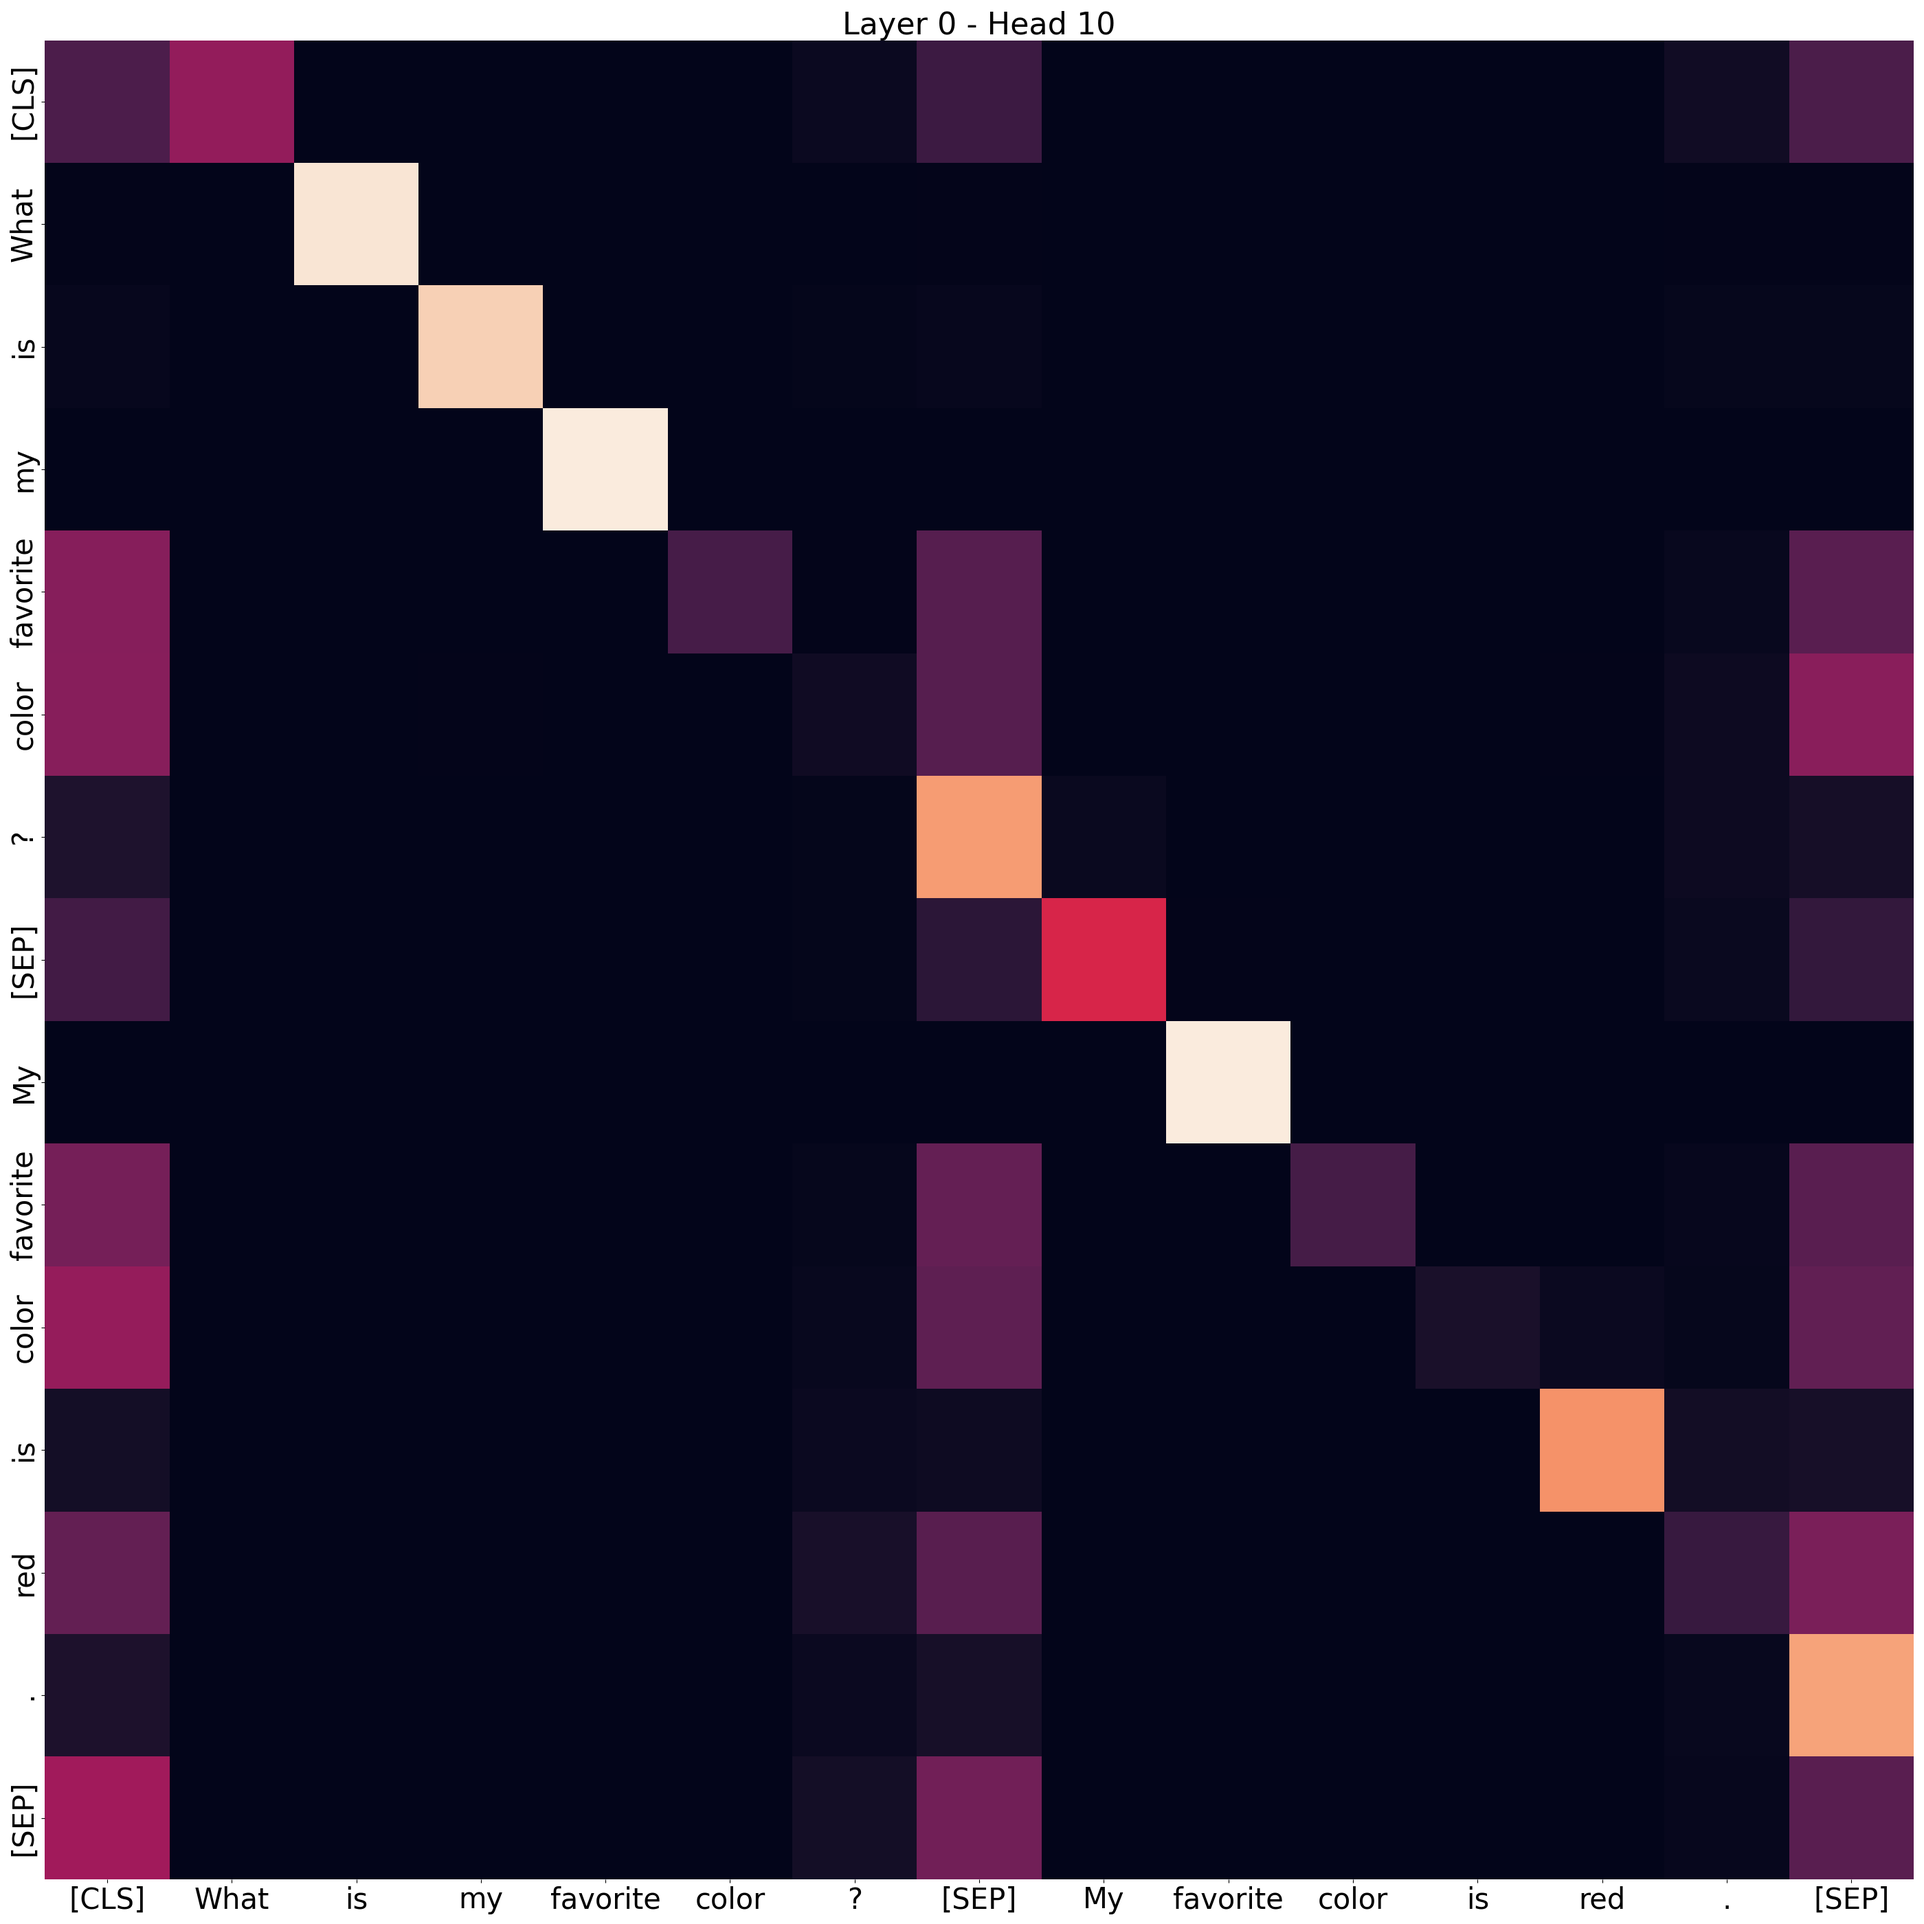
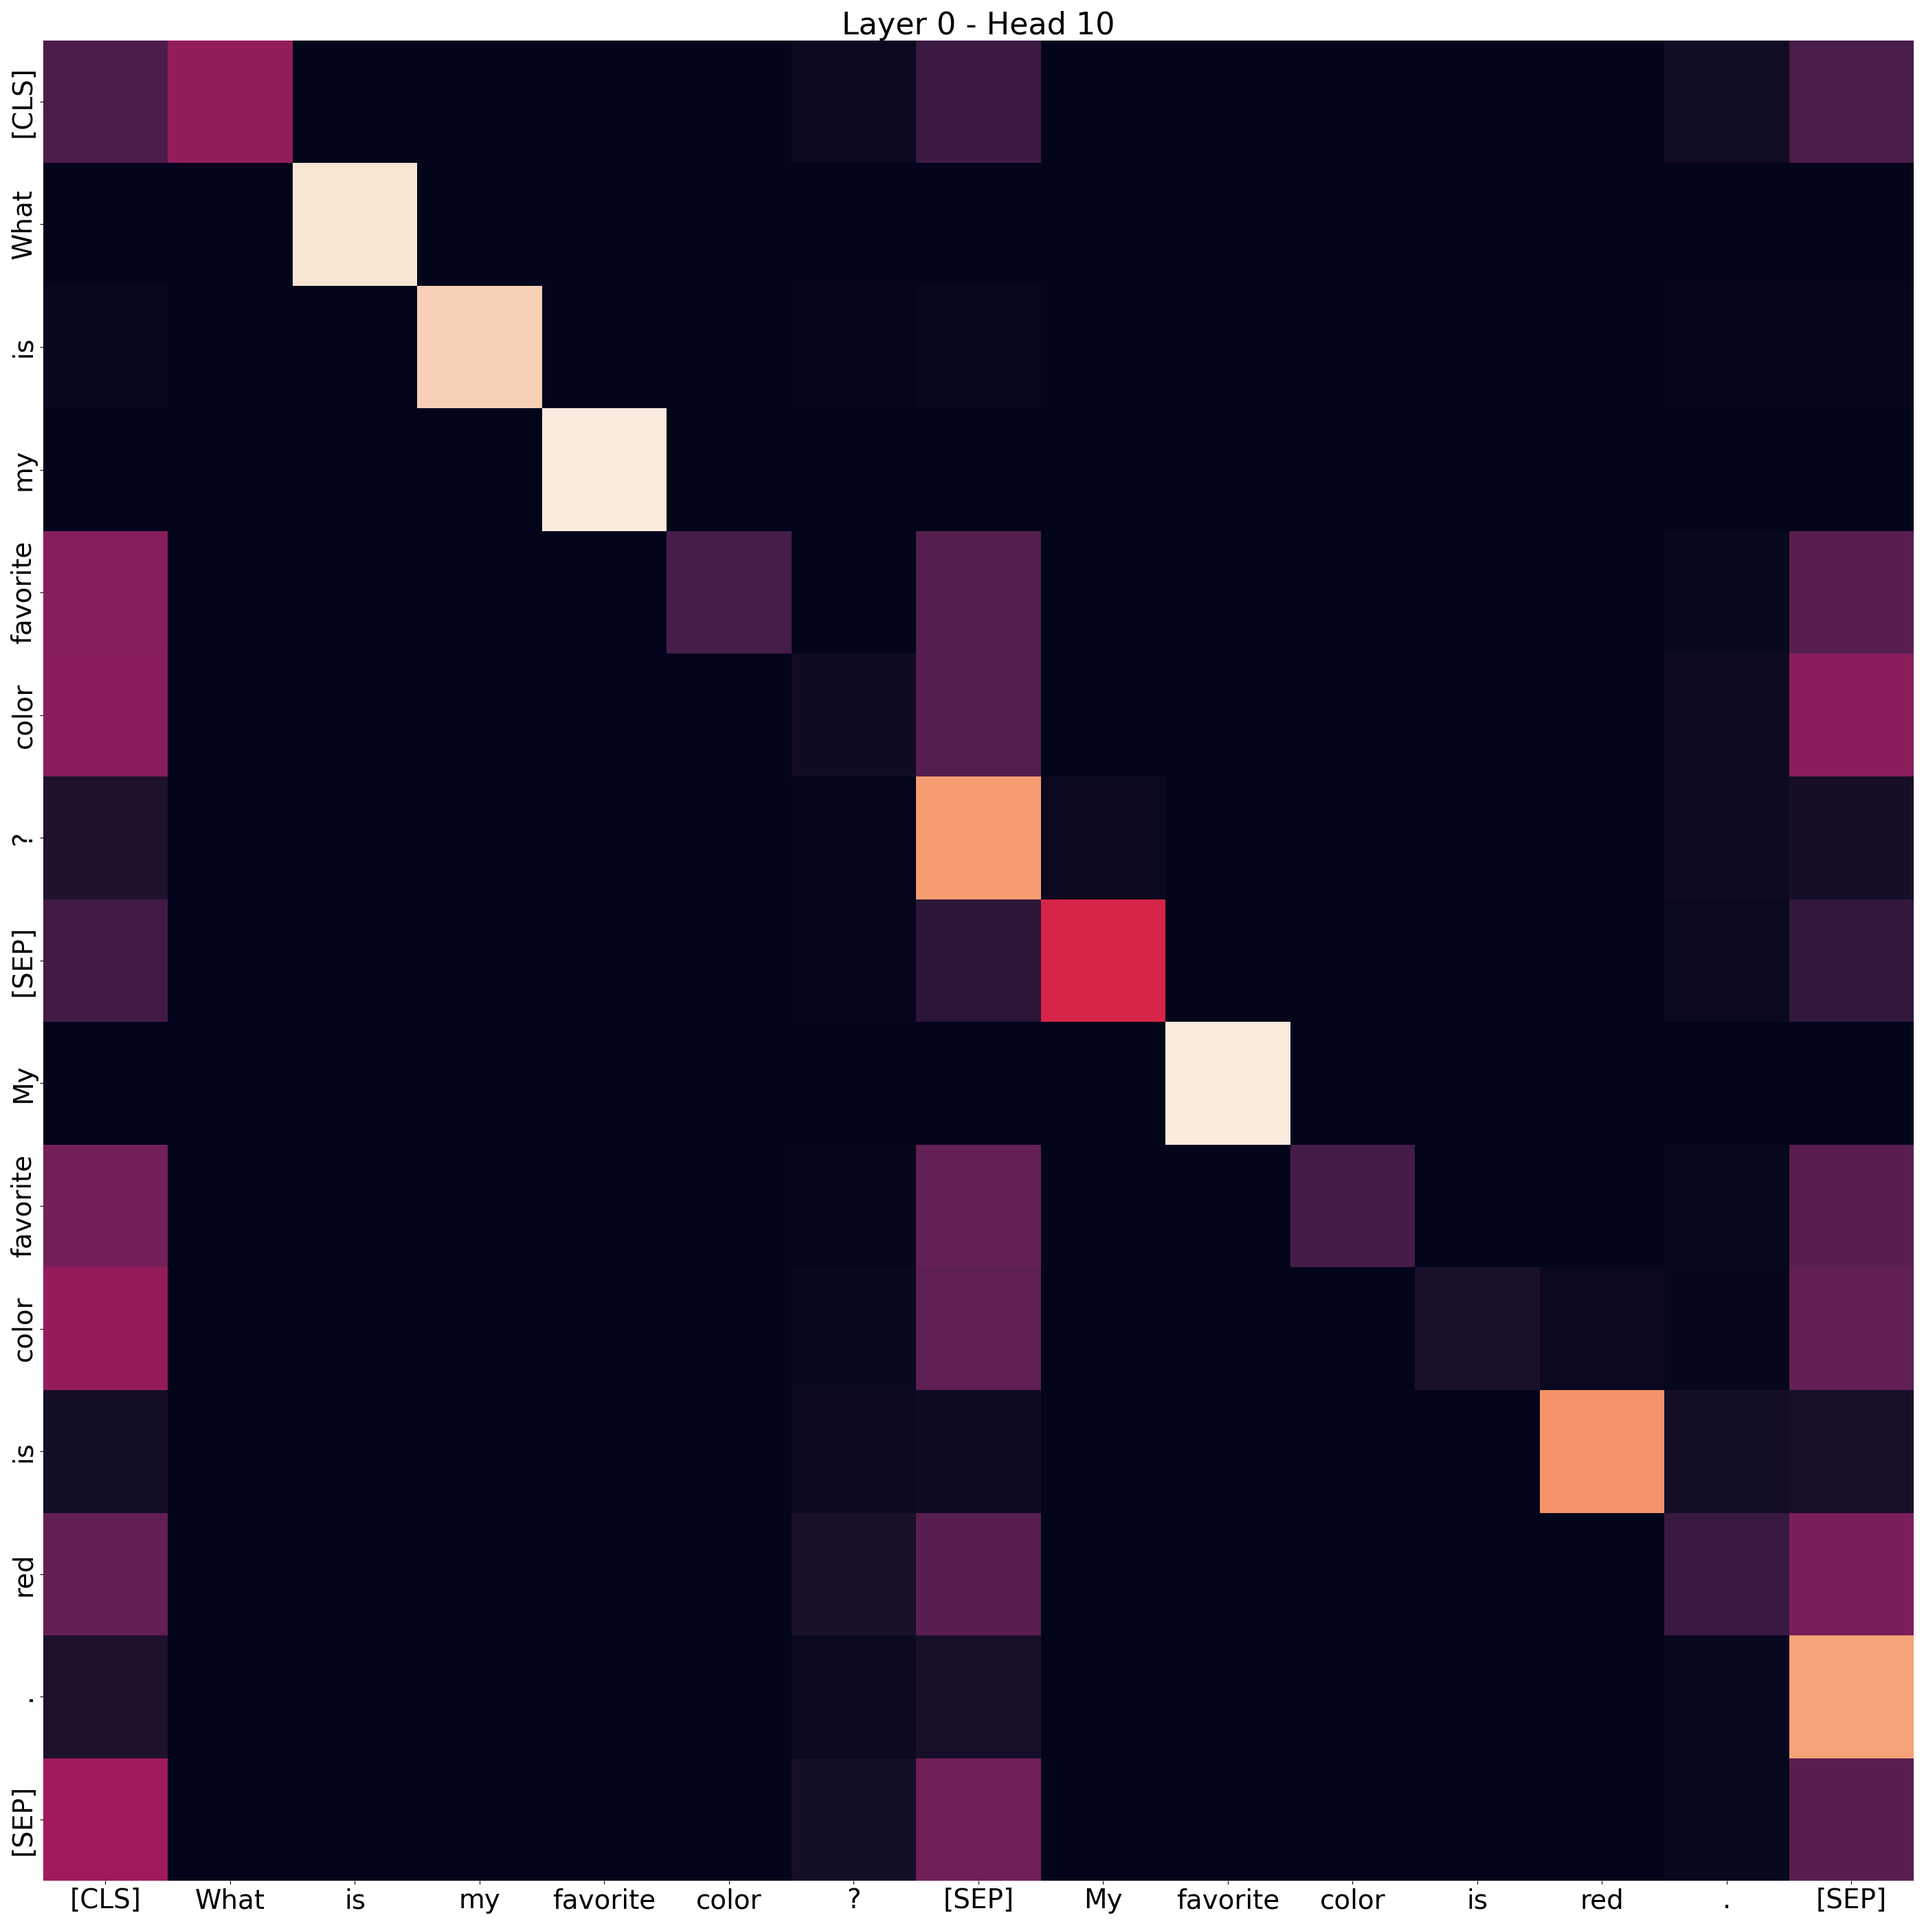
reduced font size

diff --git a/src/attention_analysis.py b/src/attention_analysis.py
@@ -78,8 +78,8 @@ def visualize_single_attention_head(attentions, tokens, layer_num, head_num, sav
     sns.heatmap(attention_head, xticklabels=tokens, yticklabels=tokens, ax=ax, cbar=False)
     ax.set_title(f'Layer {layer_num} - Head {head_num}', fontsize=32)
 
-    ax.tick_params(axis='x', labelsize=30)
-    ax.tick_params(axis='y', labelsize=30)
+    ax.tick_params(axis='x', labelsize=28)
+    ax.tick_params(axis='y', labelsize=28)
     
     file_path = os.path.join(save_dir, f'layer_{layer_num}_head_{head_num}.png')
     plt.tight_layout()
